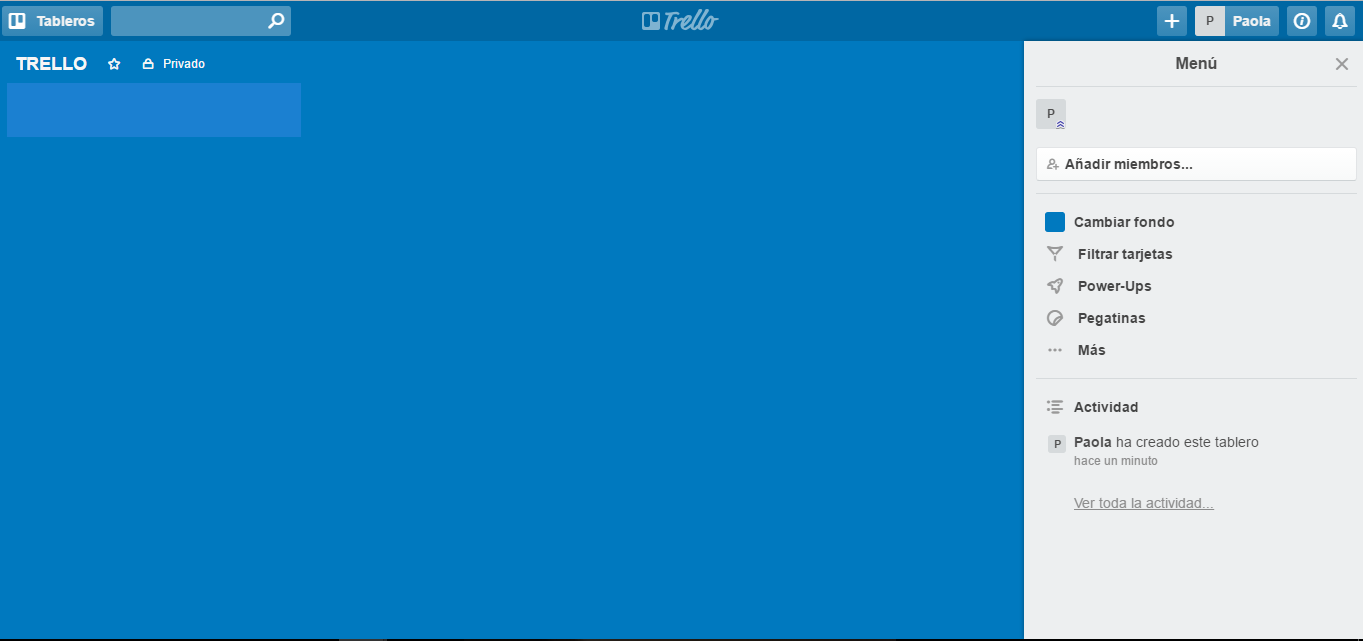
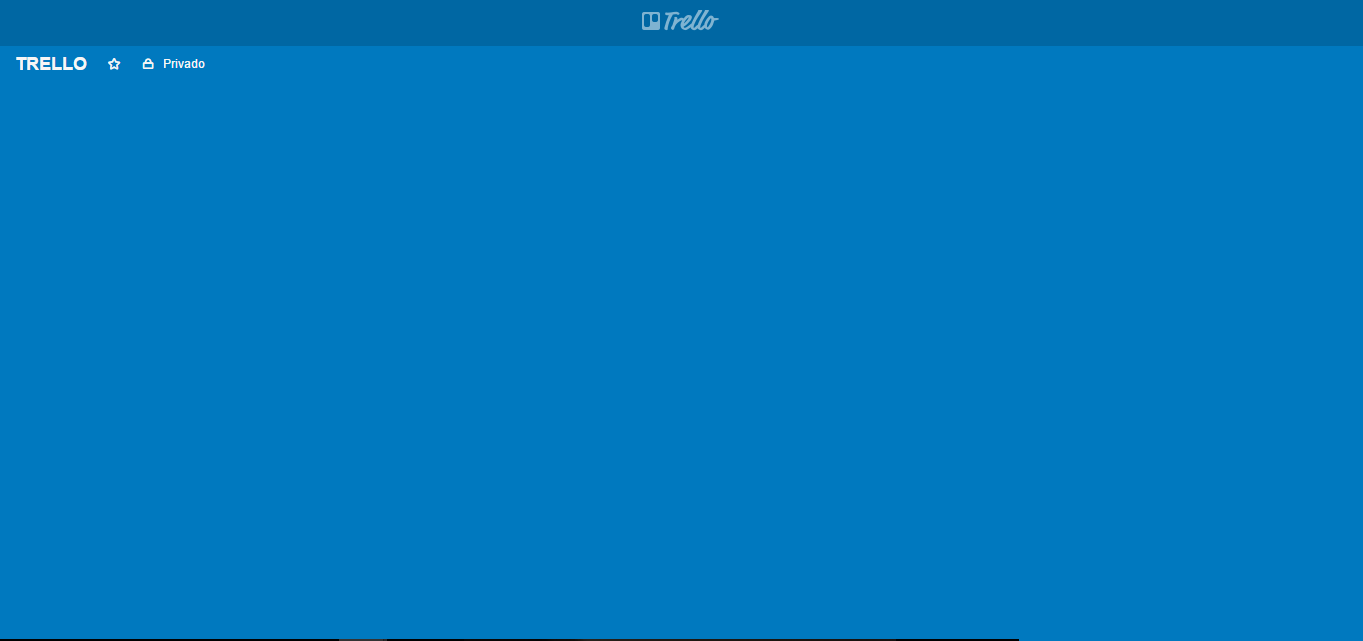
agregando cambios css, versión 1 terminada

Changed region(s): [[0.0, 0.0, 1.0, 1.0], [0.0, 0.1248, 0.2465, 0.2184]]

diff --git a/css/main.css b/css/main.css
@@ -2,17 +2,24 @@ body {
 	background-image: url("../image/fondotrello.png");
 	background-repeat: no-repeat;
 	background-size: auto;
+	margin-top: 100px;
+	margin-left: 30px;
 }
 
-/*
-form {
-	border: solid 10px #E2E4E6;
-}*/
+
+#fondo {
+	width: 300px;
+	height: 75px;
+	padding: 3px;
+	border-radius: 4px;
+	background-color: #E2E4E6;
+	display: none;
+	
+}
 
 #nota-inicial {
-	margin-top: 6%;
-	width: 200px;
-	height: 30px;
+	width: 250px;
+	height: 40px;
 	background-color: #006BA9;
 	color: #CCE1ED;
 	cursor: pointer;
@@ -24,8 +31,24 @@ form {
 
 #nota {
 	display: none;
+    width: 290px;
+    padding: 1px;
+    height: 30px;
+    cursor: text;
+    border-color: #AAAAAA;
+    border-style: double;
+    background-color: #D7D9DB;
 }
 
 #boton {
 	display: none;
+    width: 100px;
+    height: 35px;
+    border-radius: 5px;
+    margin-top: 4px;
+    cursor: pointer;
+    color: white;
+    background-color: #5DB449;
+    font-weight: bold;
+    font-size: 1em;
 }

diff --git a/index.html b/index.html
@@ -8,13 +8,15 @@
 		<link rel="shortcut icon" href="favicon.ico">
 	</head>
 	<body>
-		<form>
-		 	<input type="button" id="nota-inicial" value="Añadir una lista..." >
-		 	<input type="text" id="nota" placeholder="Escriba una nota">
-		 	<button type="button" name="boton" id="boton">Guardar</button>
-		 	<div id="contenedor"></div>
-		</form>
-		<div id="contenedor"></div>
+		<div id="contenedor">
+			<div id="subContenedor">
+			<input type="button" id="nota-inicial" value="Añadir una lista..." >
+				<form id="fondo">
+				 	<input type="text" id="nota" placeholder="Añadir una lista...">
+				 	<button type="button" name="boton" id="boton">Guardar</button>
+				</form>
+			</div>
+		</div>
 	<script  type='text/javascript' src='js/main.js'></script>
 	</body>
 </html> 

diff --git a/js/main.js b/js/main.js
@@ -1,15 +1,17 @@
 window.addEventListener("load", function() {
 	var notaUno = document.getElementById("nota-inicial");
 	var notaDos = document.getElementById("nota");
-	var boton = document.getElementById("boton")
+	var boton = document.getElementById("boton");
+	var fondo = document.getElementById("fondo");
 
 	notaUno.addEventListener("click", function(e){
 		mostrarInput(notaDos);
 	});
 
 	function mostrarInput(notaDos){
+		notaUno.style.display = "none";
 		notaDos.style.display = "block";
 		boton.style.display =  "block";
+		fondo.style.display = "block";
 	}
-
 });
